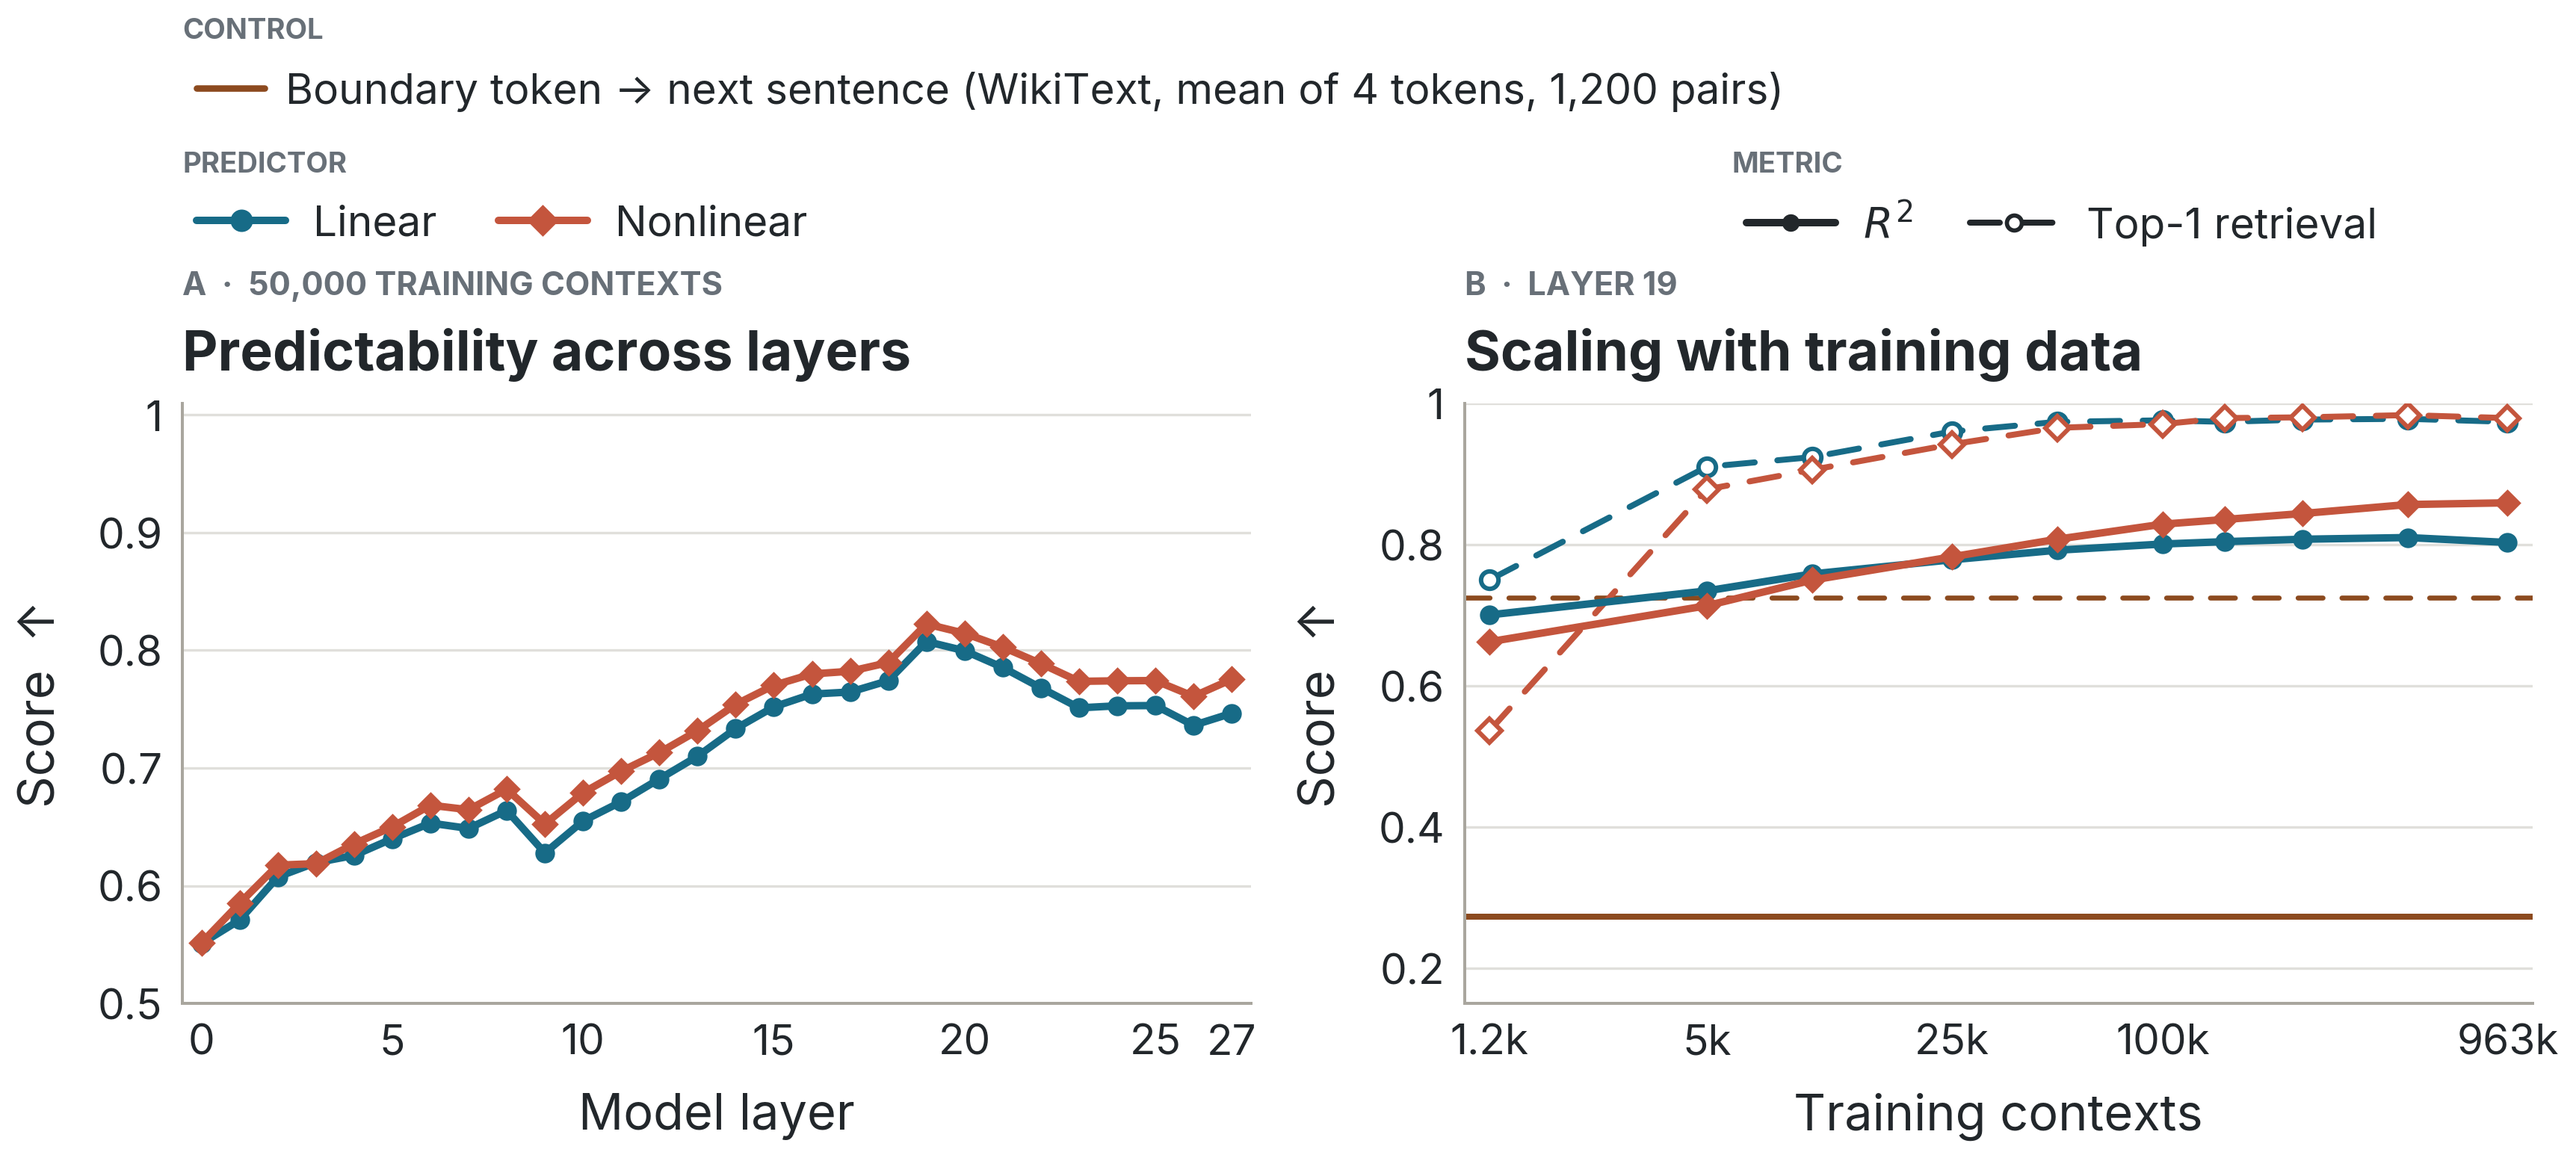
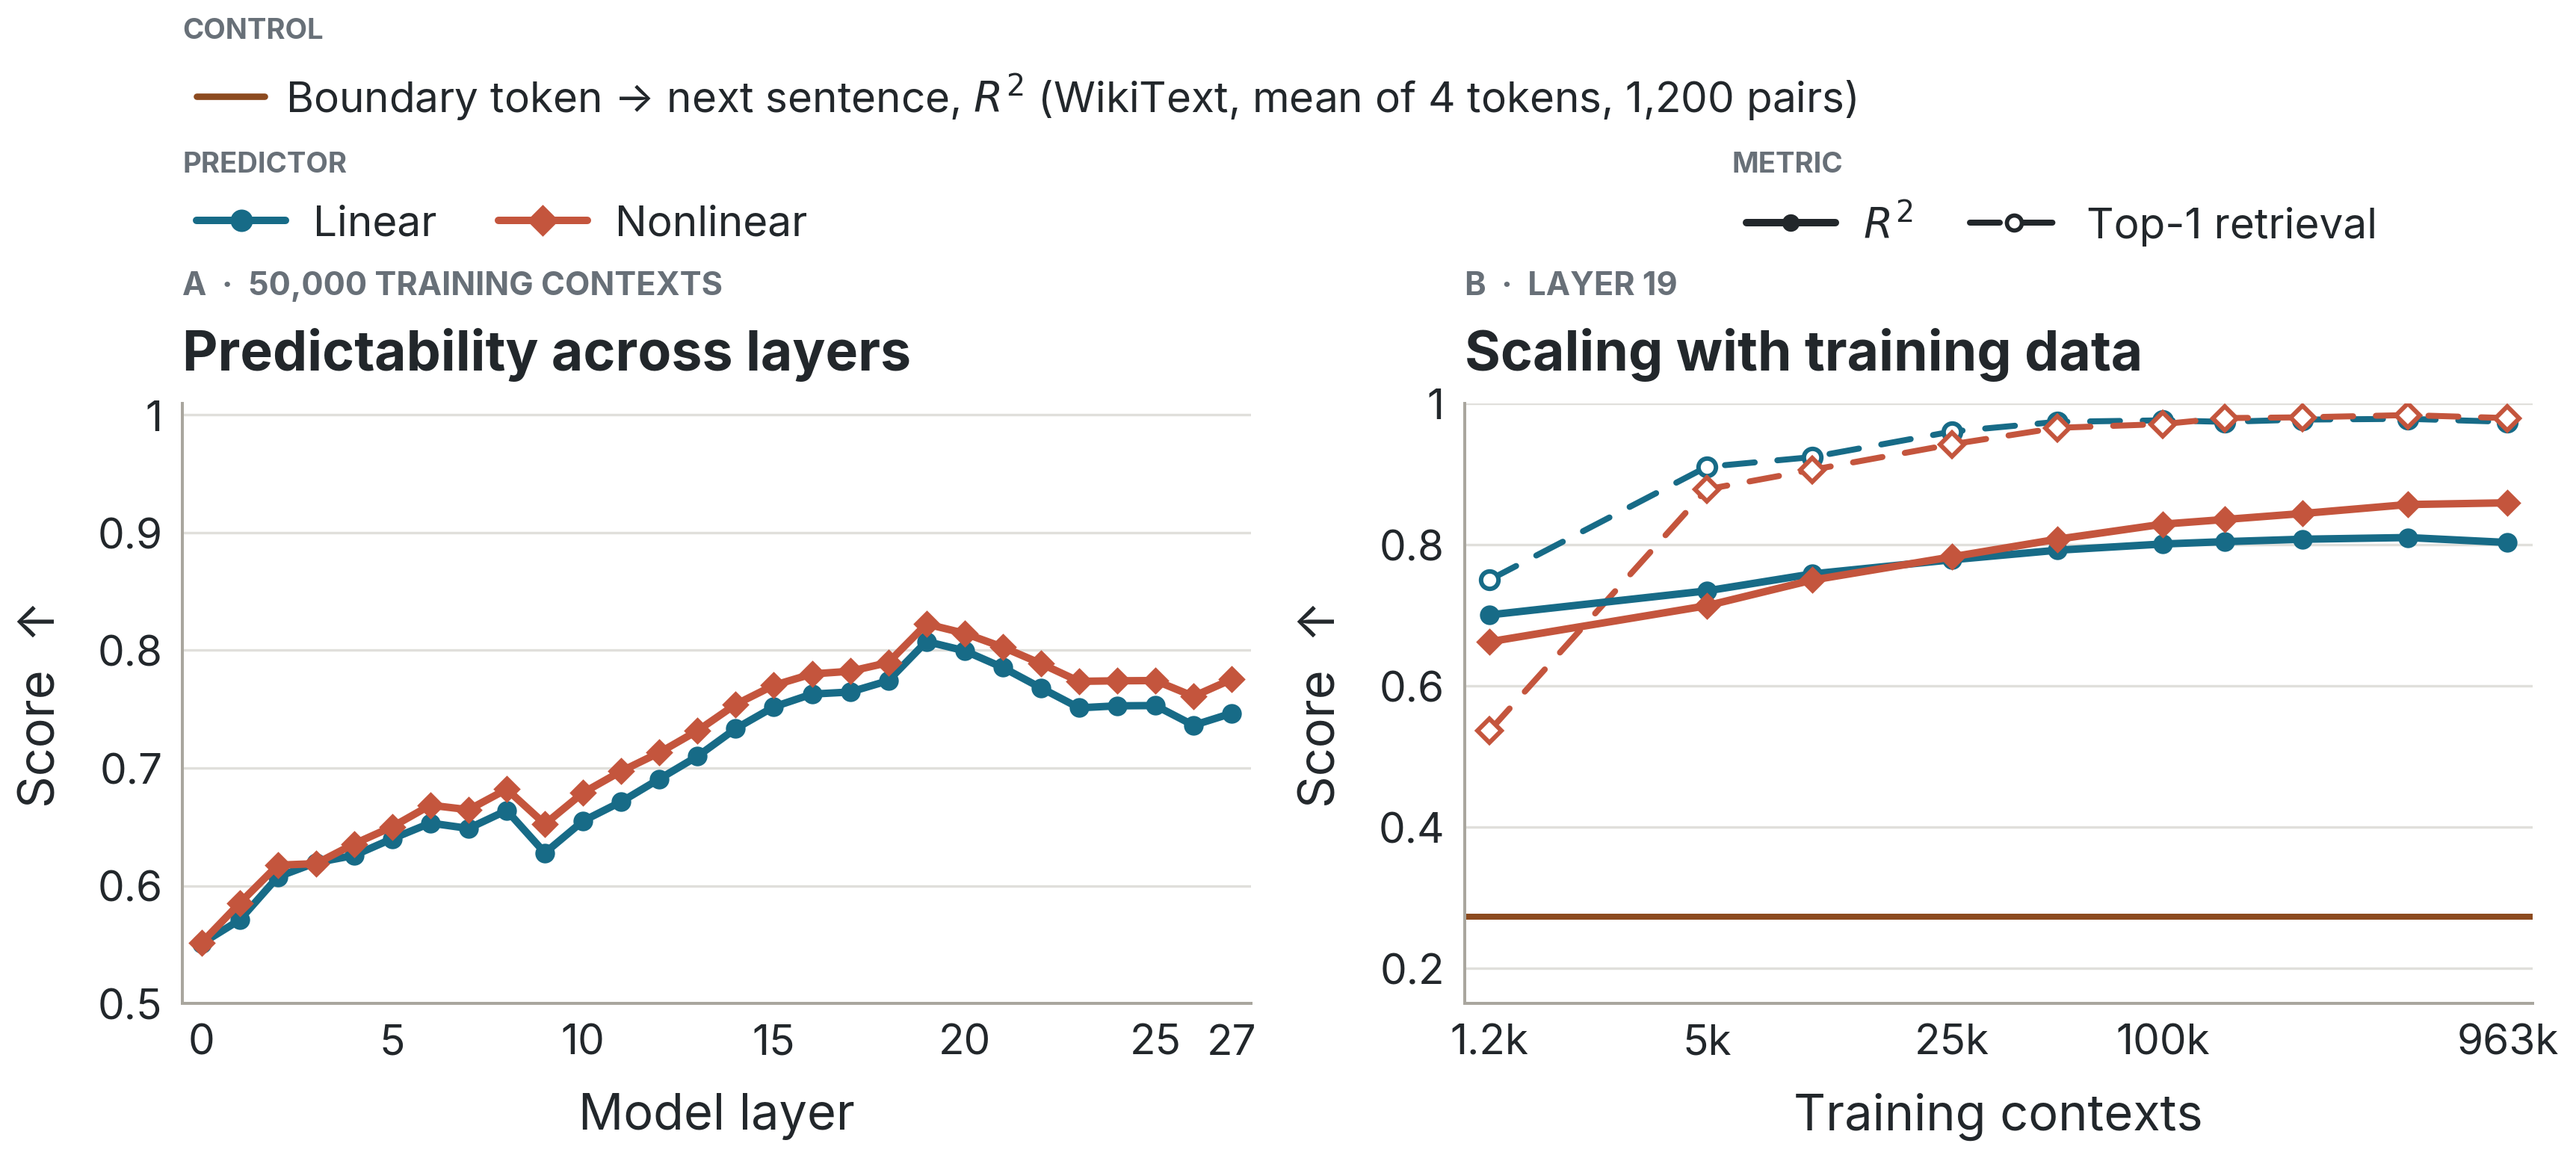
Figure 2B: boundary control as R2 line only
Generated with [Claude Code](https://claude.ai/code)
via [Happy](https://happy.engineering)

Changed region(s): [[0.0621, 0.0619, 0.714, 0.0929], [0.8071, 0.4955, 0.8692, 0.5265], [0.6829, 0.4955, 0.714, 0.5265]]

diff --git a/scripts/make_paper_figure2.py b/scripts/make_paper_figure2.py
@@ -157,11 +157,11 @@ def _load_extension_data(path: Path) -> dict:
 
 
 def _plot_controls(ax: plt.Axes, boundary: dict | None, extension: dict | None) -> None:
-    """Horizontal reference lines: solid = R^2, dashed = strict top-1."""
+    """Horizontal reference line: the boundary-token control's mean held-out R^2."""
     dash = (0, (5.0, 3.8))
     if boundary is not None:
+        # R^2 only: small-pool top-1 saturates and is quoted in the text instead.
         ax.axhline(boundary["r2_mean"], color=BOUNDARY_COLOR, lw=2.4, zorder=2)
-        ax.axhline(boundary["retrieval_mean"], color=BOUNDARY_COLOR, lw=2.0, linestyle=dash, zorder=2)
     # The copy-context baselines stay in the sidecar metadata but are not drawn
     # (their R^2 is far below the axis; the text quotes them).
 
@@ -170,7 +170,7 @@ def _control_legend_handles(boundary: dict | None, extension: dict | None) -> li
     handles = []
     if boundary is not None:
         handles.append(Line2D([0], [0], color=BOUNDARY_COLOR, lw=2.6,
-                              label=f"Boundary token \u2192 next sentence (WikiText, mean of {boundary['n_tokens']} tokens, {boundary['n_train_per_token']:,} pairs)"))
+                              label=f"Boundary token \u2192 next sentence, $R^2$ (WikiText, mean of {boundary['n_tokens']} tokens, {boundary['n_train_per_token']:,} pairs)"))
     return handles
 
 
@@ -512,8 +512,7 @@ def _write_outputs(
                             "path": _display_path(boundary_source),
                             "sha256": _sha256(boundary_source),
                         },
-                        "encoding": "burnt-umber horizontal lines on panel B: solid = mean R^2, "
-                        "dashed = mean strict top-1 over the four exact-token maps",
+                        "encoding": "burnt-umber horizontal line on panel B: mean held-out R^2 over the four exact-token maps",
                         **boundary,
                     }
                 ),
